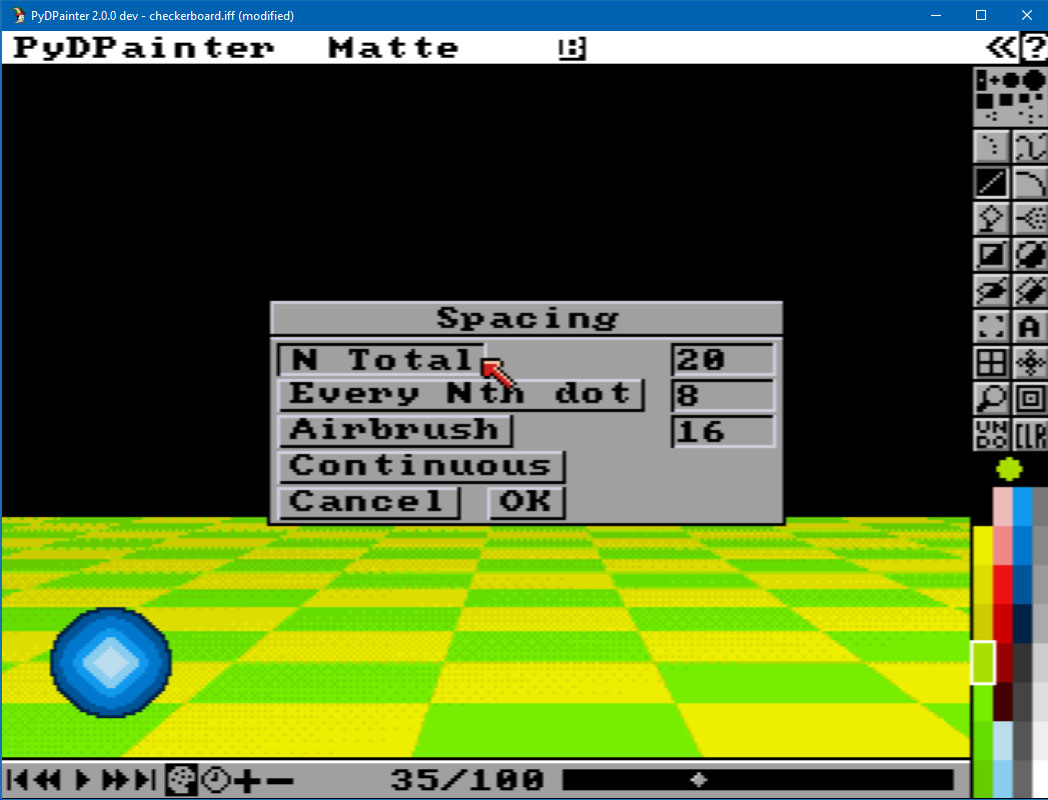
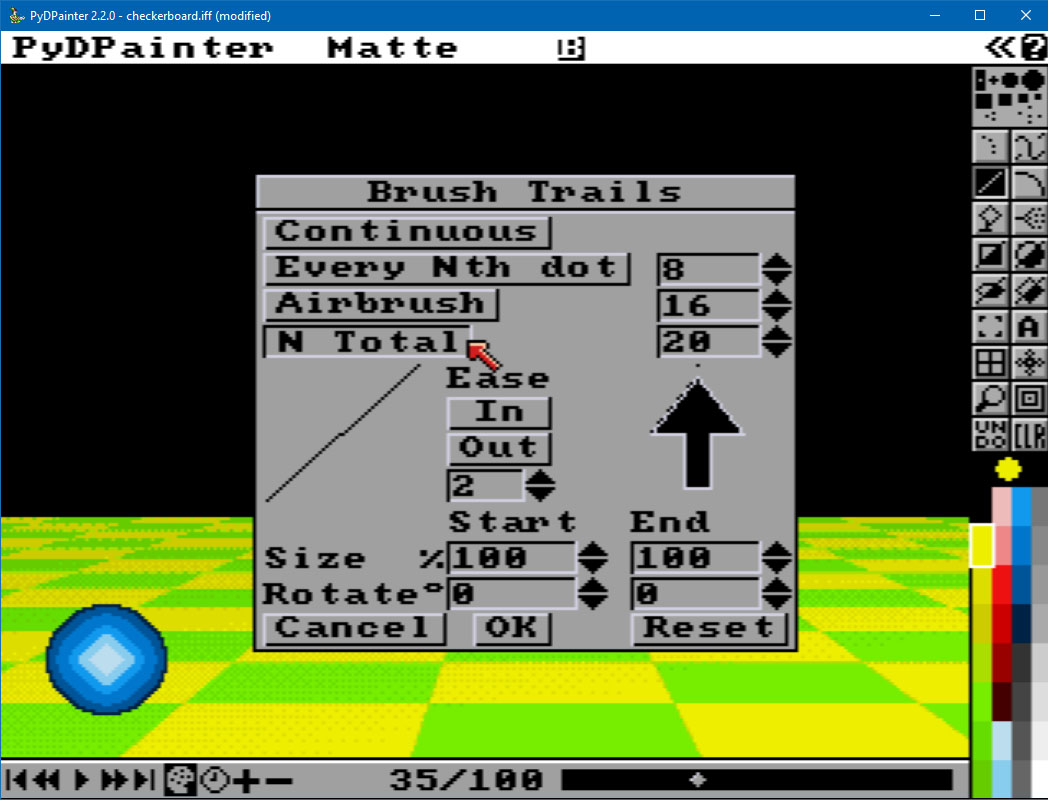
Animpainting tutorial update
- Changed the windows short-key from to `Alt`.
- Updated snapshot from Spacing to **Brush Trails**
- Various clarifications.
- Added a small section about Ease In and Out with existing GIF example.
Once proofread, this can be pull to Master branch too.

diff --git a/docs/tutorials/src/animpainting/animpainting.md b/docs/tutorials/src/animpainting/animpainting.md
@@ -83,19 +83,18 @@ Now, deleting (either with the drawing tools and the right mouse button) or the 
 
 ## Better than painting? Animpainting!
 
-To activate, hold down the `Left-Windows` key or the `Left-Command` key on the Mac before you drag out a line or draw with a tool. When you let go of the mouse button, the brush will be stamped on successive frames.
+To activate, hold down the `Alt` key or the `Left-Command` key on the Mac before you drag out a line or draw with a tool. When you let go of the mouse button, the brush will be stamped on successive frames.
 
 *Tips: Press **Shift-B** or* `Brush/Restore` *menu to recall the last ball... er brush.*
 
 Let's try!
 1. Hit the Dot drawing tool.
 2. Check you're at frame 1/100.
-3. Hold down the Animpainting key (`Left-Windows` or `Left-Command`).
+3. Hold down the Animpainting key (`Alt` or `Left-Command`).
 4. Move the ball around the screen, holding down the left mouse button as if it were the trajectory you wanted it to follow.
 5. Then Release everything.
-6. Exit the PC Windows menu if it was triggered. Click into the PyDPainter windows.
-7. Rewind and admire your animation skills!
-8. Clear the animation and start again. 
+6. Rewind and admire your animation skills!
+7. Clear the animation and start again. 
 
 Move the ball around the screen, clicking repeatedly with the left mouse button along the trajectory you want it to follow.
 
@@ -103,9 +102,13 @@ You can also try drawing by holding down the left mouse button and dragging, but
 
 Have a little fun, then let's move on to the next step, which brings a little more control for more realistic trajectories.
 
+Hit the Clear ![img](../../../tools/src/t-clr.png) tool, **All Frames** to erase your animation test. Recall your ball brush with `SHIFT B` or reload it.
+
 ## Linear and curved trajectories.
 
 Remember, Animpainting works for all dot and line-based tools (except airbrush). It also automatically adjusts to the number of frames if you have the **spacing option** set to **continuous**.
+
+
 
 Select the Line tool.![](../../../tools/src/t-line.png)
 
@@ -113,10 +116,10 @@ Now the ball will follow the straight line you're about to draw.
 
 1. Start from frame 1.<br>
 *It's not required, but if you start from frame 25, the animpainting will loop and continue after 100 from 1 to 24.*
-2. Press the Animpainting key (remember `Left-Windows` key or the `Left-Command` key on the Mac).
-3. Draw a line from the far left to the right of the screen.
-4. Release the key.
-5. Play and enjoy!
+1. Press the Animpainting key (remember `Alt` key or the `Left-Command` key on the Mac).
+2. Draw a line from the far left to the right of the screen.
+3. Release the key.
+4. Play and enjoy!
 
 ### Faster ?
 
@@ -124,7 +127,7 @@ The result is slow. Why? We're at 20 fps (frame per second). Click on the clock 
 ![](anim-rate.jpg)
 This means that with a path of 100 frames, our ball takes 5 seconds to pass through the screen (100/20=5).
 
-Go to the **Spacing** options of the Line tool (right-click on the icon). 
+Go to the **Spacing** options of the Line tool (right-click on the icon). *Ok, it's now **Brush Trails**.*
 Change to **N total** 20.
 ![](n-spacing.jpg)
 
@@ -133,11 +136,17 @@ This means that our trajectory will be drawn with 20 "points" / balls and theref
 ![](7-linear-20.jpg)
 1. Start from frame 1.
 2. Hit **F10** three times to hide the right toolbar.
-2. Press the Animpainting key (remember `Left-Windows` key or the `Left-Command` key on the Mac).
+2. Press the Animpainting key (remember `Alt` key or the `Left-Command` key on the Mac).
 3. Draw a line from the far left to the right of the screen. 
 4. Release the Animpainting key.
 5. Hit **F10** to have the animbar again on screen.
 5. Play the animation!
+
+### Ease In and Out
+You can now use the new [Brush Trails](../../../tools/src/brushtrails.md#ease-inout) option to **Ease In** or **Out** the movement. For examples, a **Ease In** of **2** will slower the ball speed at the beginning and make it accelerating.
+![alt text](ease-ex-1.gif)
+
+Feel free to erase and try again to experiment.
 
 ### Let's bounce!
 
@@ -152,7 +161,7 @@ This time we want a 3-part trajectory:
 
 We want to "simulate" a ball, i.e. a curved trajectory. Click on the Curve tool.
 
-We'll therefore divide the animation into 3 parts of 33 frames each (100/3). In the **Spacing** options, set the **N total** to 33.
+We'll therefore divide the animation into 3 parts of 33 frames each (100/3). In the **Spacing** now **Brush Trails** options, set the **N total** to 33.
 
 Starting at frame 1. In 3 curved traces, try to make this trajectory according to this model (I've made it as a drawing so you can see my curves).
 ![](bounces.jpg)
@@ -183,11 +192,11 @@ Animation file (Go to **Anim / Save...**). Fille a filename and choose one of th
 ![](save-anim-gif.jpg)
 
 You can also export all frames at once as a succession of numbered images, and this automatically.
-Go to **Anim / Frames / Export...** Then type a file name and choose one of the image formats supported by PyDPainter in the small drop-down menu on the right.
+Go to **Anim / Frames / Export...** Then type a file name and choose one of the image formats supported by PyDPainter in the small drop-down menu on the right. Add a .anim5 or .gif suffix to your filename if needed.
 
 ![](export-frames.jpg)
 
-***Note that saving an animation does not preserve the sources of the entire project, remember to save the brushes used (as Brush) or the background and spare screen (as Picture).***
+*Note that saving an animation does not preserve the sources of the entire project, remember to save the brushes used (as Brush) or the background and spare screen (as Picture).*
 
 ## Other drawing tools
 
